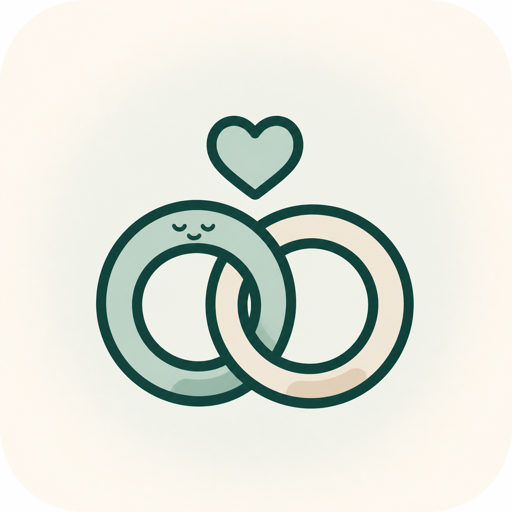
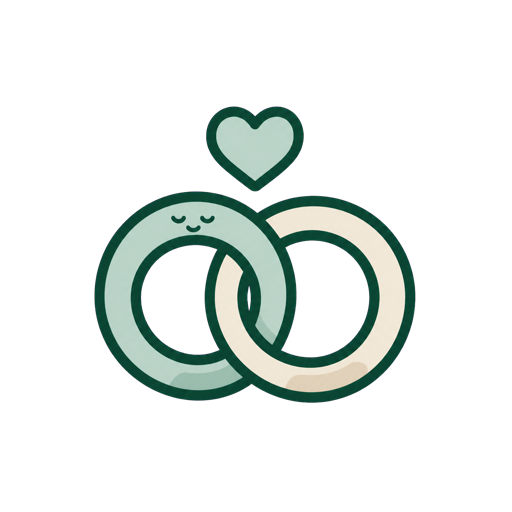
Make custom illustrations transparent

Changed region(s): [[0.1562, 0.1875, 0.8125, 0.8125]]

diff --git a/SakinaTests/ContentIntegrityTests.swift b/SakinaTests/ContentIntegrityTests.swift
@@ -43,7 +43,7 @@ final class ContentIntegrityTests: XCTestCase {
         XCTAssertEqual(groupedIDs.count, Set(groupedIDs).count, "A situation appears in more than one stage")
     }
 
-    func testEveryLifeGroupHasUniqueBundledArtwork() {
+    func testEveryLifeGroupHasUniqueBundledArtwork() throws {
         let groups = GuidanceCatalog.groups
         let assetNames = groups.map(\.id.artworkAssetName)
 
@@ -51,7 +51,11 @@ final class ContentIntegrityTests: XCTestCase {
         XCTAssertEqual(assetNames.count, Set(assetNames).count, "Life-group artwork names must be unique")
 
         for assetName in assetNames {
-            XCTAssertNotNil(UIImage(named: assetName), "Missing bundled artwork: \(assetName)")
+            let image = try XCTUnwrap(UIImage(named: assetName), "Missing bundled artwork: \(assetName)")
+            let pixels = try XCTUnwrap(image.cgImage, "Artwork is not a raster image: \(assetName)")
+            XCTAssertEqual(pixels.width, 512, "\(assetName) must be 512 px wide")
+            XCTAssertEqual(pixels.height, 512, "\(assetName) must be 512 px high")
+            try assertArtworkHasTransparentBackground(image, assetName: assetName)
         }
     }
 
@@ -69,6 +73,7 @@ final class ContentIntegrityTests: XCTestCase {
             let pixels = try XCTUnwrap(image.cgImage, "Artwork is not a raster image: \(assetName)")
             XCTAssertEqual(pixels.width, 512, "\(assetName) must be 512 px wide")
             XCTAssertEqual(pixels.height, 512, "\(assetName) must be 512 px high")
+            try assertArtworkHasTransparentBackground(image, assetName: assetName)
         }
     }
 
@@ -86,6 +91,7 @@ final class ContentIntegrityTests: XCTestCase {
             let pixels = try XCTUnwrap(image.cgImage, "Artwork is not a raster image: \(assetName)")
             XCTAssertEqual(pixels.width, 256, "\(assetName) must be 256 px wide")
             XCTAssertEqual(pixels.height, 256, "\(assetName) must be 256 px high")
+            try assertArtworkHasTransparentBackground(image, assetName: assetName)
         }
     }
 
@@ -117,5 +123,57 @@ final class ContentIntegrityTests: XCTestCase {
         let data = try Data(contentsOf: url)
         let actual = SHA256.hash(data: data).map { String(format: "%02x", $0) }.joined()
         XCTAssertEqual(actual, reviewedVersesSHA256)
+    }
+
+    private func assertArtworkHasTransparentBackground(
+        _ image: UIImage,
+        assetName: String,
+        file: StaticString = #filePath,
+        line: UInt = #line
+    ) throws {
+        let source = try XCTUnwrap(
+            image.cgImage,
+            "Artwork is not a raster image: \(assetName)",
+            file: file,
+            line: line
+        )
+        let width = source.width
+        let height = source.height
+        let bytesPerRow = width * 4
+        var rgba = [UInt8](repeating: 0, count: height * bytesPerRow)
+        let context = try XCTUnwrap(
+            CGContext(
+                data: &rgba,
+                width: width,
+                height: height,
+                bitsPerComponent: 8,
+                bytesPerRow: bytesPerRow,
+                space: CGColorSpaceCreateDeviceRGB(),
+                bitmapInfo: CGBitmapInfo.byteOrder32Big.rawValue
+                    | CGImageAlphaInfo.premultipliedLast.rawValue
+            ),
+            "Could not decode alpha for \(assetName)",
+            file: file,
+            line: line
+        )
+
+        context.draw(source, in: CGRect(x: 0, y: 0, width: width, height: height))
+
+        let alphaValues = stride(from: 3, to: rgba.count, by: 4).map { rgba[$0] }
+        XCTAssertTrue(alphaValues.contains(0), "\(assetName) needs transparent pixels", file: file, line: line)
+        XCTAssertTrue(alphaValues.contains(255), "\(assetName) needs opaque subject pixels", file: file, line: line)
+
+        let cornerAlphaOffsets = [
+            3,
+            (width - 1) * 4 + 3,
+            (height - 1) * bytesPerRow + 3,
+            (height - 1) * bytesPerRow + (width - 1) * 4 + 3
+        ]
+        XCTAssertTrue(
+            cornerAlphaOffsets.allSatisfy { rgba[$0] == 0 },
+            "\(assetName) must be clear at every canvas corner",
+            file: file,
+            line: line
+        )
     }
 }

diff --git a/Sakina/Views/ExploreView.swift b/Sakina/Views/ExploreView.swift
@@ -172,11 +172,6 @@ struct LifeGroupCard: View {
             LifeGroupArtwork(group: group)
                 .scaledToFit()
                 .frame(width: 118, height: 118)
-                .clipShape(RoundedRectangle(cornerRadius: 20, style: .continuous))
-                .overlay {
-                    RoundedRectangle(cornerRadius: 20, style: .continuous)
-                        .strokeBorder(Color.sakinaHairline.opacity(0.72), lineWidth: 0.75)
-                }
                 .frame(maxWidth: .infinity)
                 .accessibilityHidden(true)
 
@@ -292,11 +287,6 @@ struct LifeGroupView: View {
             LifeGroupArtwork(group: group)
                 .scaledToFit()
                 .frame(width: 94, height: 94)
-                .clipShape(RoundedRectangle(cornerRadius: 24, style: .continuous))
-                .overlay {
-                    RoundedRectangle(cornerRadius: 24, style: .continuous)
-                        .strokeBorder(Color.sakinaHairline.opacity(0.72), lineWidth: 0.75)
-                }
                 .accessibilityHidden(true)
 
             VStack(alignment: .leading, spacing: 8) {

diff --git a/Sakina/Onboarding/OnboardingFlow.swift b/Sakina/Onboarding/OnboardingFlow.swift
@@ -421,7 +421,6 @@ private struct PrayerMomentArtwork: View {
             }
         }
         .frame(width: 30, height: 30)
-        .clipShape(RoundedRectangle(cornerRadius: 8, style: .continuous))
         .accessibilityHidden(true)
     }
 }
@@ -1001,21 +1000,12 @@ private struct OnboardingHeroArtwork: View {
                     .interpolation(.high)
                     .scaledToFit()
             } else {
-                ZStack {
-                    Color.sakinaElevated
-
-                    YaqeenMark()
-                        .fill(Color.sakinaInk)
-                        .padding(28)
-                }
+                YaqeenMark()
+                    .fill(Color.sakinaInk)
+                    .padding(28)
             }
         }
         .frame(width: 104, height: 104)
-        .clipShape(RoundedRectangle(cornerRadius: 24, style: .continuous))
-        .overlay {
-            RoundedRectangle(cornerRadius: 24, style: .continuous)
-                .strokeBorder(Color.sakinaHairline.opacity(0.72), lineWidth: 0.75)
-        }
         .accessibilityHidden(true)
     }
 }
